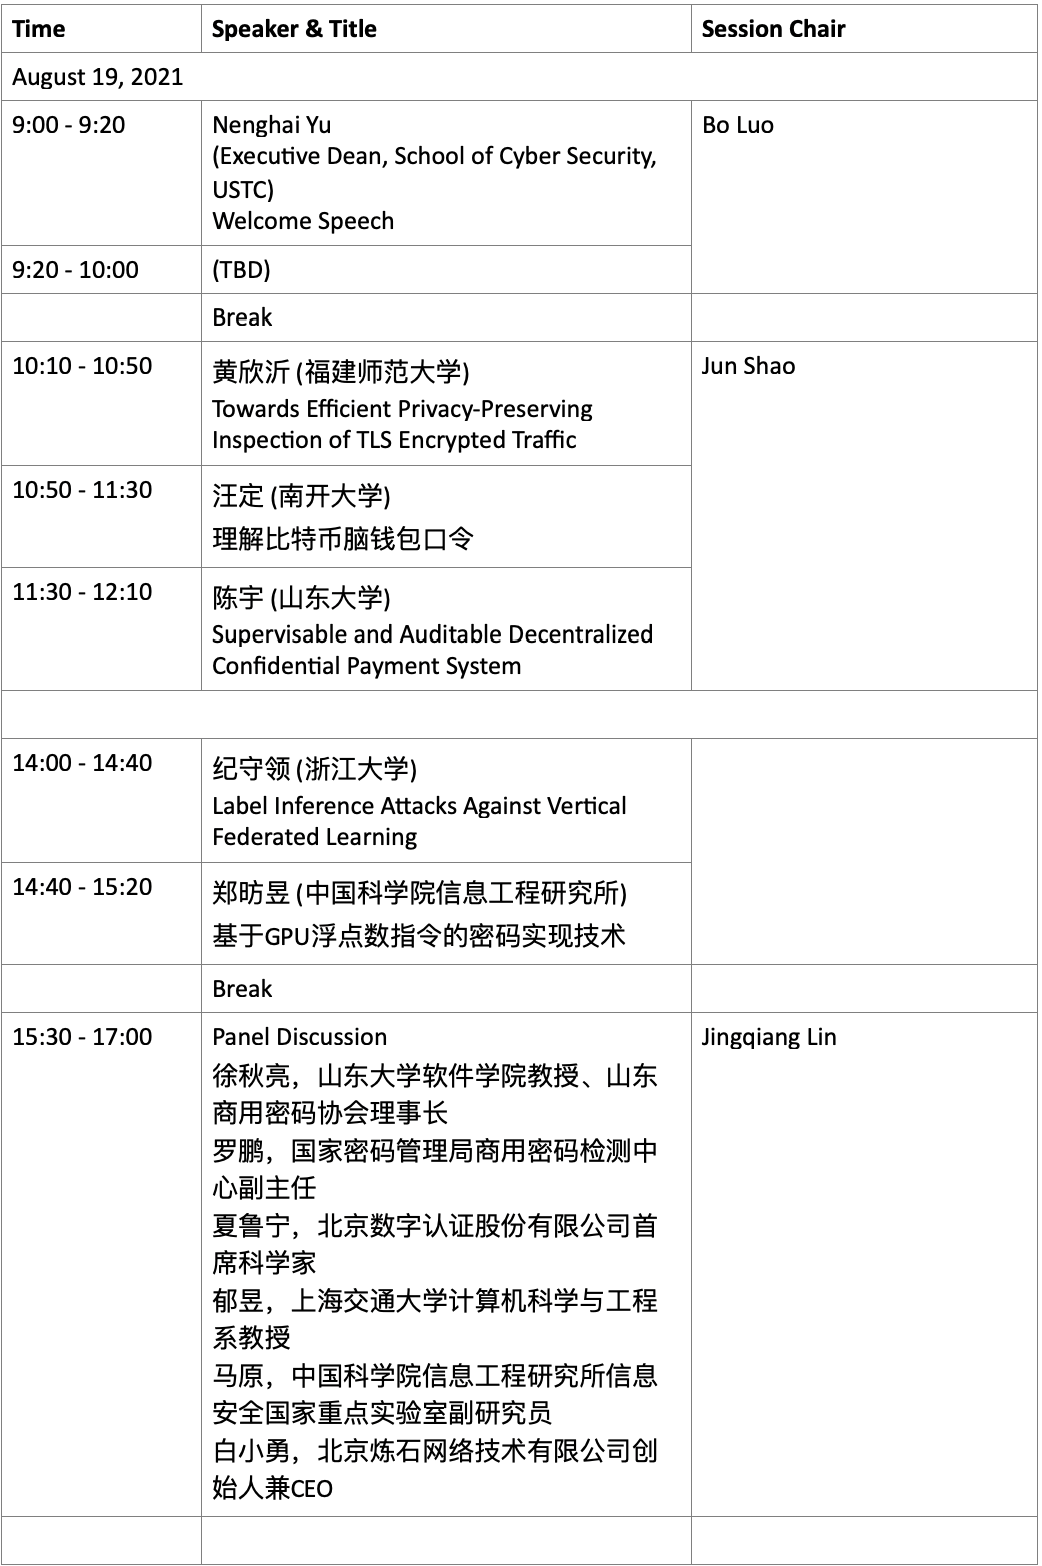
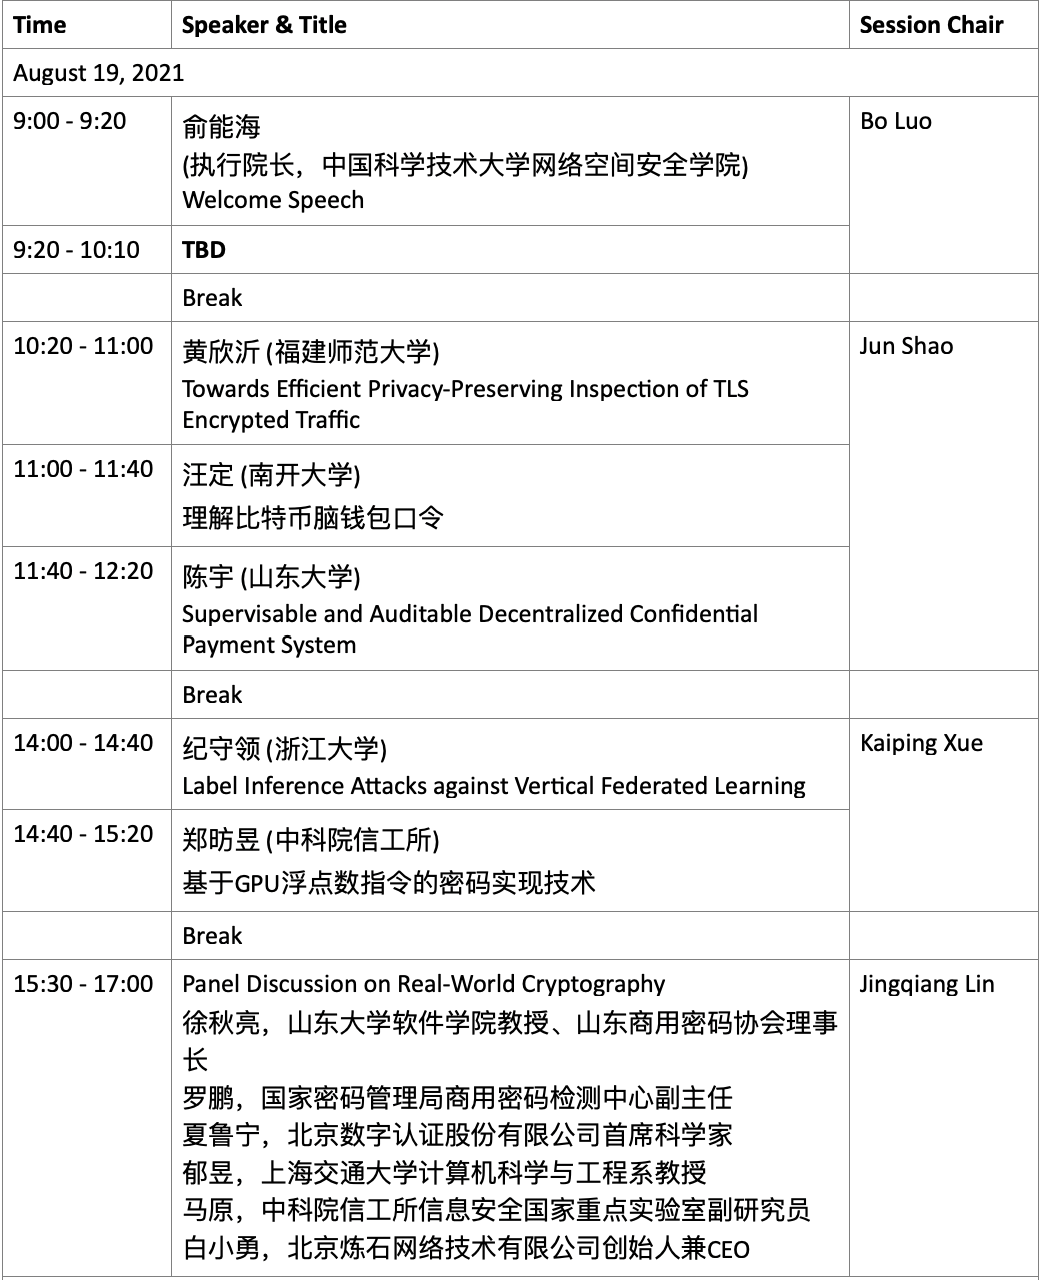
update

diff --git a/CSDP2021/committee.html b/CSDP2021/committee.html
@@ -113,6 +113,14 @@
 									<tr>
 										<td class="_bio">
 											</p>
+											<strong>Kaiping Xue, </strong>
+											University of Science and Technology of China
+											</p>
+										</td>
+									</tr>
+									<tr>
+										<td class="_bio">
+											</p>
 											<strong>Shengzhi Zhang,
 											</strong>Boston University Metropolitan
 											College, USA

diff --git a/CSDP2021/m/index.html b/CSDP2021/m/index.html
@@ -365,6 +365,11 @@
             </p>
           </li>
           <li>
+            <p><b>Kaiping Xue</b>,
+              University of Science and Technology of China
+            </p>
+          </li>
+          <li>
             <p><b>Shengzhi Zhang</b>,
               Boston University Metropolitan College , USA
             </p>
